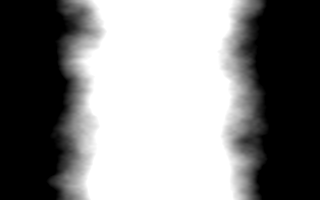
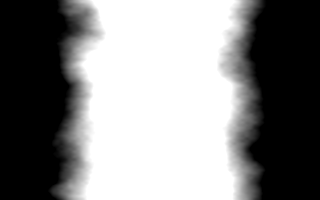
tweak(mode 64): true centre-out nucleation + more knobs
Ramp the organic noise in with distance so the core stays pristine — the
reveal now always starts at the EXACT centre and grows outward (organic=0
= perfectly straight/round front). Expose edge softness (spread), wave
amount (organic) and wave scale (maskScale) in the mode panel.

diff --git a/shader.js b/shader.js
@@ -1786,10 +1786,14 @@ fn mirrorMask(uv: vec2f) -> f32 {
   } else {
     d = max(abs(uv.x - 0.5), abs(uv.y - 0.5)) * 2.0;       // expanding square
   }
-  // organic front: break the expanding edge up with noise (reuses the shared
-  // organic/seed params so it stays clean at 0 and ragged toward 1).
-  let n = fbm(uv * 5.0 + p.seed * 0.13) - 0.5;
-  d = d + n * p.organic * 0.5;
+  // organic front: break the expanding edge up with noise. The noise is ramped
+  // in with distance (core stays pristine) so the reveal always nucleates at the
+  // EXACT centre and grows outward — organic=0 gives a perfectly straight/round
+  // front, higher values get progressively more ragged toward the edges.
+  //   organic = wave amount   maskScale = wave frequency
+  let core = smoothstep(0.0, 0.18, d);
+  let n = fbm(uv * (2.5 + p.maskScale * 2.5) + p.seed * 0.13) - 0.5;
+  d = d + n * p.organic * 0.5 * core;
   return clamp(d, 0.0, 1.0);
 }
 fn organicMask(uv: vec2f, lA: f32, lB: f32, edge: f32) -> f32 {

diff --git a/ui.js b/ui.js
@@ -111,7 +111,7 @@
   // mode -> its own param keys
   const MK = {
     63:['swipeDir','swipeCols','swipeColW','swipeStagger','swipeSoft'],
-    64:['mirrorDir','organic'],
+    64:['mirrorDir','spread','organic','maskScale'],
     1:['rimWidth','rimDark'], 2:['paperAngle','paperAniso','paperGranulation','paperGrowth','paperFollow','paperPatches'],
     3:['bloomCount','bloomRate','bloomRim','bloomImageBias'], 4:['diffStrength','diffRadius'],
     5:['sedSource','sedDirection','sedBands','sedSoftness'], 6:['saltSource','saltImage','saltDensity','saltContrast','saltBias'],